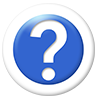
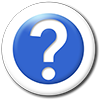
help button

diff --git a/dsn-icons.css b/dsn-icons.css
@@ -33,7 +33,7 @@
   }
   
   [href="https://support.discord.com"] svg{
-    background: url(https://numoder.github.io/dsn10-theme/assets/actions/Help.png);
+    background: url(https://numoder.github.io/dsn10-theme/assets/actions/help.png);
     background-size: cover;
   }
   

diff --git a/dsn-settings.css b/dsn-settings.css
@@ -339,7 +339,7 @@
     background-color: transparent;
   }
 
-  .tutorialContainer_b06ae6:has(.selected__501f5) {
+.tree__7a511 > .scroller_de945b > .tutorialContainer_b06ae6:has(.selected__501f5) {
     background: var(--server-notification-hover);
   }
   

diff --git a/dsn-server.css b/dsn-server.css
@@ -409,3 +409,7 @@
   .separator__666aa > .buttonContainer__14dd9 > button{
     left: -38px;
   }
+
+  .messageListItem__050f9{
+    padding-bottom: 5px;
+  }
